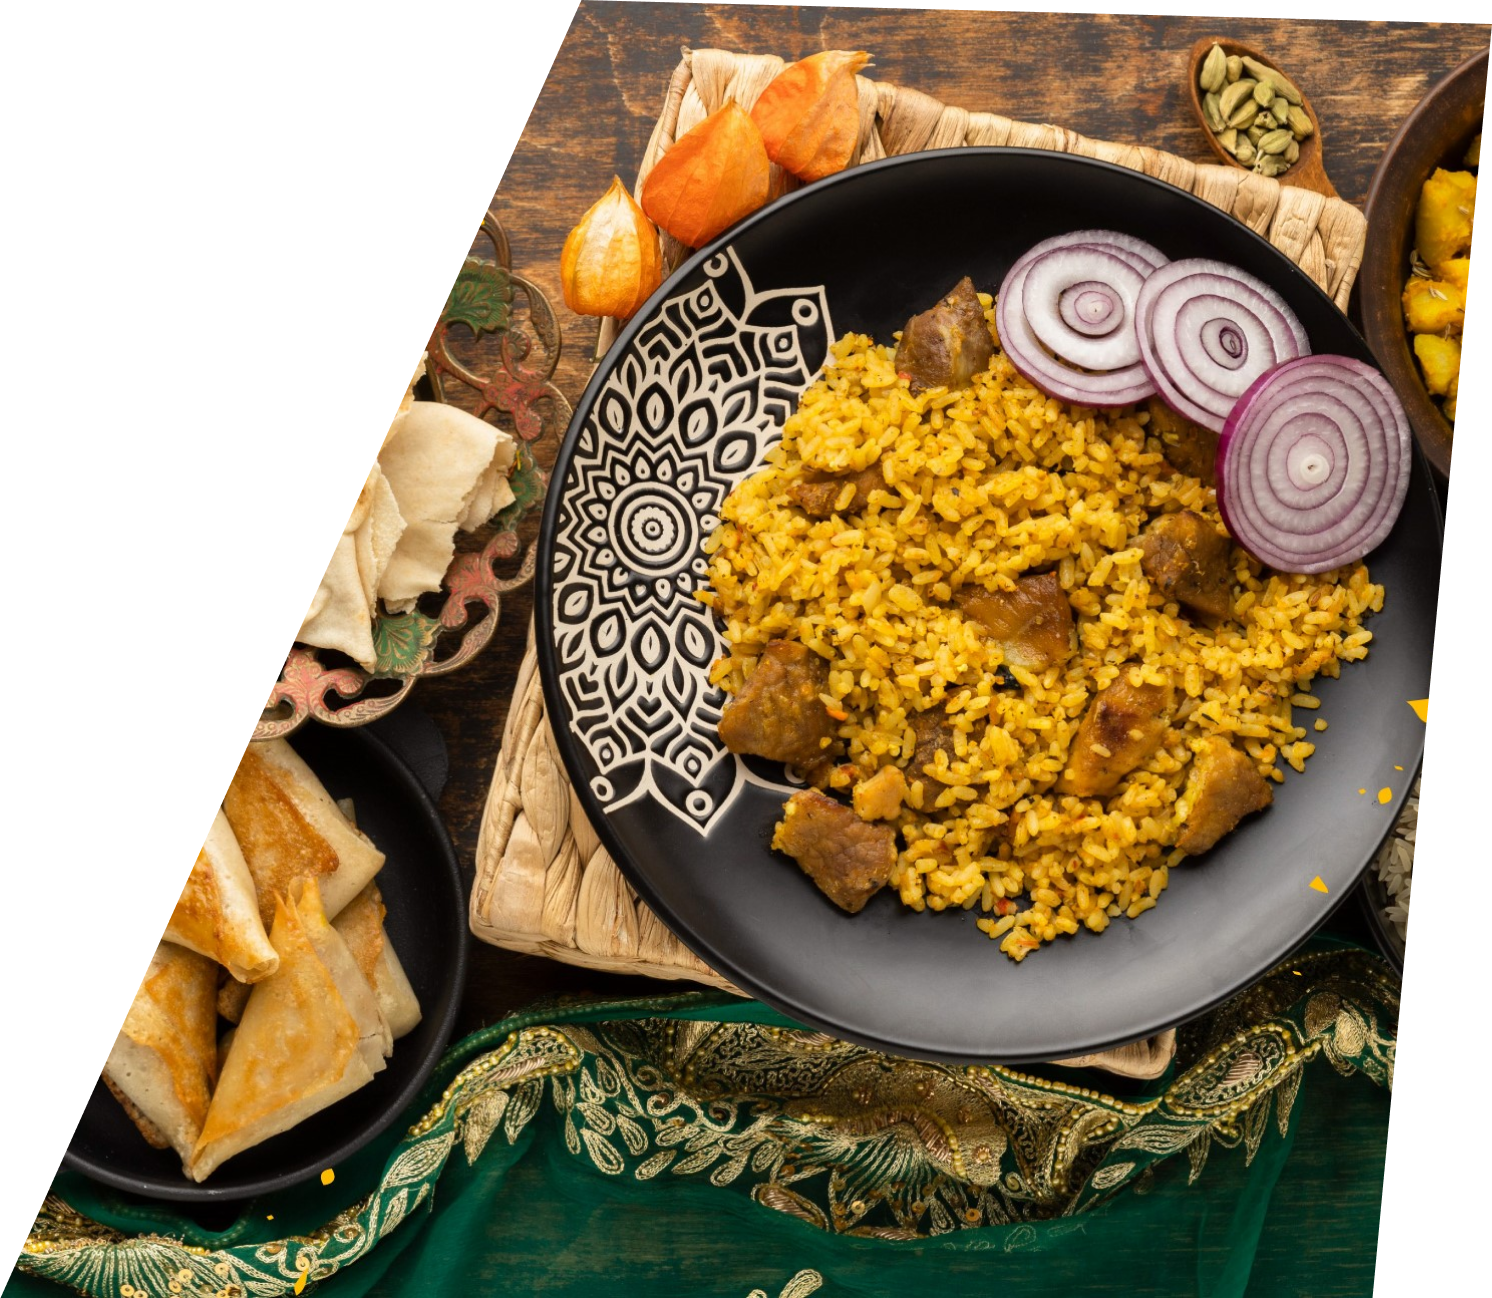
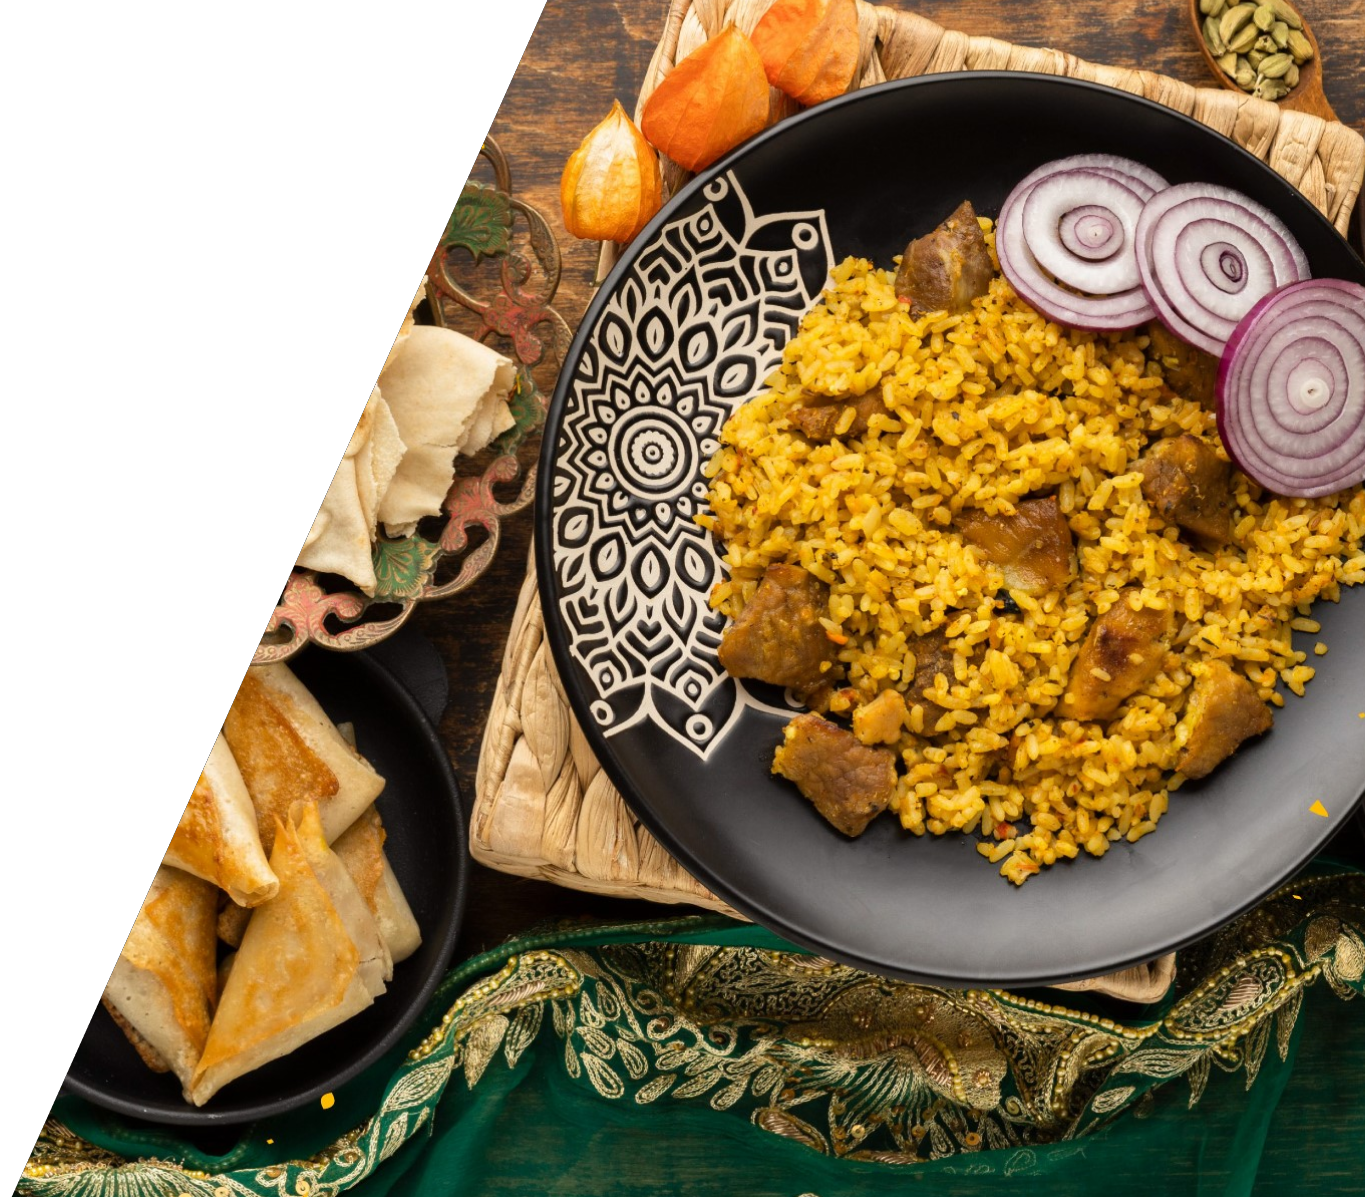
test on lap

diff --git a/src/App.css b/src/App.css
@@ -1,38 +1,118 @@
+@import url('https://rsms.me/inter/inter.css');
+
+body {
+  overflow: hidden;
+  background-color: antiquewhite;
+  color: #5C4033;
+}
+
 .App {
-  text-align: center;
+  margin: 0px;
+  padding: 0px;
 }
 
-.App-logo {
-  height: 40vmin;
-  pointer-events: none;
-}
-
-@media (prefers-reduced-motion: no-preference) {
-  .App-logo {
-    animation: App-logo-spin infinite 20s linear;
-  }
-}
-
-.App-header {
-  background-color: #282c34;
-  min-height: 100vh;
+form {
   display: flex;
   flex-direction: column;
-  align-items: center;
-  justify-content: center;
-  font-size: calc(10px + 2vmin);
+  margin: 0px;
+}
+
+.formStyle {
+  display: flex;
+  flex-direction: row;
+}
+
+.imgContainer {
+  width: 80%; 
+  height: 80%;
+}
+
+.cover {
+  /* width: 100%; 
+  height: 100%;  */
+  object-fit: cover;
+  object-position: center; 
+  overflow: -moz-hidden-unscrollable;
+  width: 1000px;
+  height: 800px;
+  flex-shrink: 0;
+  float: right;
+}
+
+.form {
+  margin-left: 64px;
+  margin-top: 64px;
+}
+
+h2 {
+  font-family: 'Inter', sans-serif;
+  font-size: 40px;
+  margin: 10px;
+  margin-bottom: 0px;
+  font-weight: bolder;
+}
+
+#heading {
+  padding-left: 30px;
+  margin: 0px;
+  margin-bottom: 20px;
+}
+
+label {
+  margin: 20px;
+}
+
+.inputbox {
+  margin-left: 40px;
+  height: 40px;
+  border: 1px gray solid;
+  border-radius: 10px;
+  font-size: 20px;
+  text-align: left;
+  padding-left: 5px;
+}
+
+.submit-btn {
+  margin-left: 40px;
+  height: 40px;
+  border: 1px white solid;
+  border-radius: 10px;
+  background-color: #5C4033;
+  color: white;
+  cursor: pointer;
+}
+
+.submit-btn:disabled {
+  margin-left: 40px;
+  height: 40px;
+  border: 1px white solid;
+  border-radius: 10px;
+  background-color: gray;
   color: white;
 }
 
-.App-link {
-  color: #61dafb;
+.checkbox-btn {
+  display: flex;
+  flex-direction: row;
 }
 
-@keyframes App-logo-spin {
-  from {
-    transform: rotate(0deg);
-  }
-  to {
-    transform: rotate(360deg);
-  }
+.terms {
+  margin-left: 10px;
+}
+
+.check {
+  background-color: lightgreen;
+}
+
+span {
+  color: burlywood;
+  text-decoration: underline;
+}
+
+button {
+  margin-left: 23%;
+  margin-top: 10px;
+  text-align: center;
+  border: none;
+  background-color: transparent;
 }

diff --git a/src/Components/Login.js b/src/Components/Login.js
@@ -1,6 +1,6 @@
 import { useState } from "react";
 import React from 'react';
-import loginCover from '../assets/loginCover.png';
+import loginCover from '../assets/logCover.png'
 
 export default function Login(props) {
   const handleClick = () => {
@@ -21,26 +21,26 @@ export default function Login(props) {
   };
 
   return (  
-    <div>
-      <div>
+    <div className="formStyle">
+      <div className="form">
         <h2>Hey, </h2>
         <h2>Welcome Back To DineOn</h2>
-        <p>We are very happy to see you back!</p>
+        <p id="heading">We are very happy to see you back!</p>
           <form onSubmit={handleSubmit}>
             <label>Email : </label>
-            <input type="email" value={Email} onChange={(event) => setEmail(event.target.value)} />
+            <input type="email" value={Email} onChange={(event) => setEmail(event.target.value)} className="inputbox" />
             <label>Password : </label>
-            <input type="password" value={Password} onChange={(event) => setPassword(event.target.value)} />
-            <div>
-              <input type="checkbox" onClick={checkboxHandler} /> 
-              <p>By signing up you are agree to our Term of Use and Privacy Policy.</p>
+            <input type="password" value={Password} onChange={(event) => setPassword(event.target.value)} className="inputbox" />
+            <div className="checkbox-btn">
+              <input type="checkbox" onClick={checkboxHandler} className="check" /> 
+              <p className="terms">By signing up you are agree to our Term of Use and Privacy Policy.</p>
             </div>
-            <input type="submit" disabled = {!flag} />
+            <input type="submit" disabled = {!flag} className="submit-btn" />
           </form>
           <button onClick= {handleClick}>Don’t have an account? <span>Signup Here</span></button>
       </div>
-      <div>
-        <img src = {loginCover} alt="no img" />
+      <div className="imgContainer">
+        <img src = {loginCover} alt="no img" className="cover" />
       </div>
     </div>
   )

diff --git a/src/Components/SignUp.js b/src/Components/SignUp.js
@@ -34,14 +34,15 @@ export default function SignUp(props) {
           <input type="submit" />
           <div>
               <input type="checkbox" onClick={checkboxHandler} /> 
-              <p>By signing up you are agree to our Term of Use and Privacy Policy.</p>
+              <p className="terms">By signing up you are agree to our Term of Use and Privacy Policy.</p>
             </div>
             <input type="submit" disabled = {!flag} />
           </form>
-          <button onClick= {handleClick}>Don’t have an account? <span>Signup Here</span></button>
+          <button onClick= {handleClick}>Don’t have an account? <span id="colorchange">Signup Here</span></button>
           <div>
-        <img src = {signUpCover} alt="no img" />
-      </div>
+            {/* <img src={sticker} /> */}
+            <img src = {signUpCover} alt="no img" />
+          </div>
     </div>
   )
 }

diff --git a/public/index.html b/public/index.html
@@ -10,6 +10,7 @@
       content="Web site created using create-react-app"
     />
     <link rel="apple-touch-icon" href="%PUBLIC_URL%/logo192.png" />
+    <link rel="stylesheet" href="https://rsms.me/inter/inter.css" />
     <!--
       manifest.json provides metadata used when your web app is installed on a
       user's mobile device or desktop. See https://developers.google.com/web/fundamentals/web-app-manifest/
